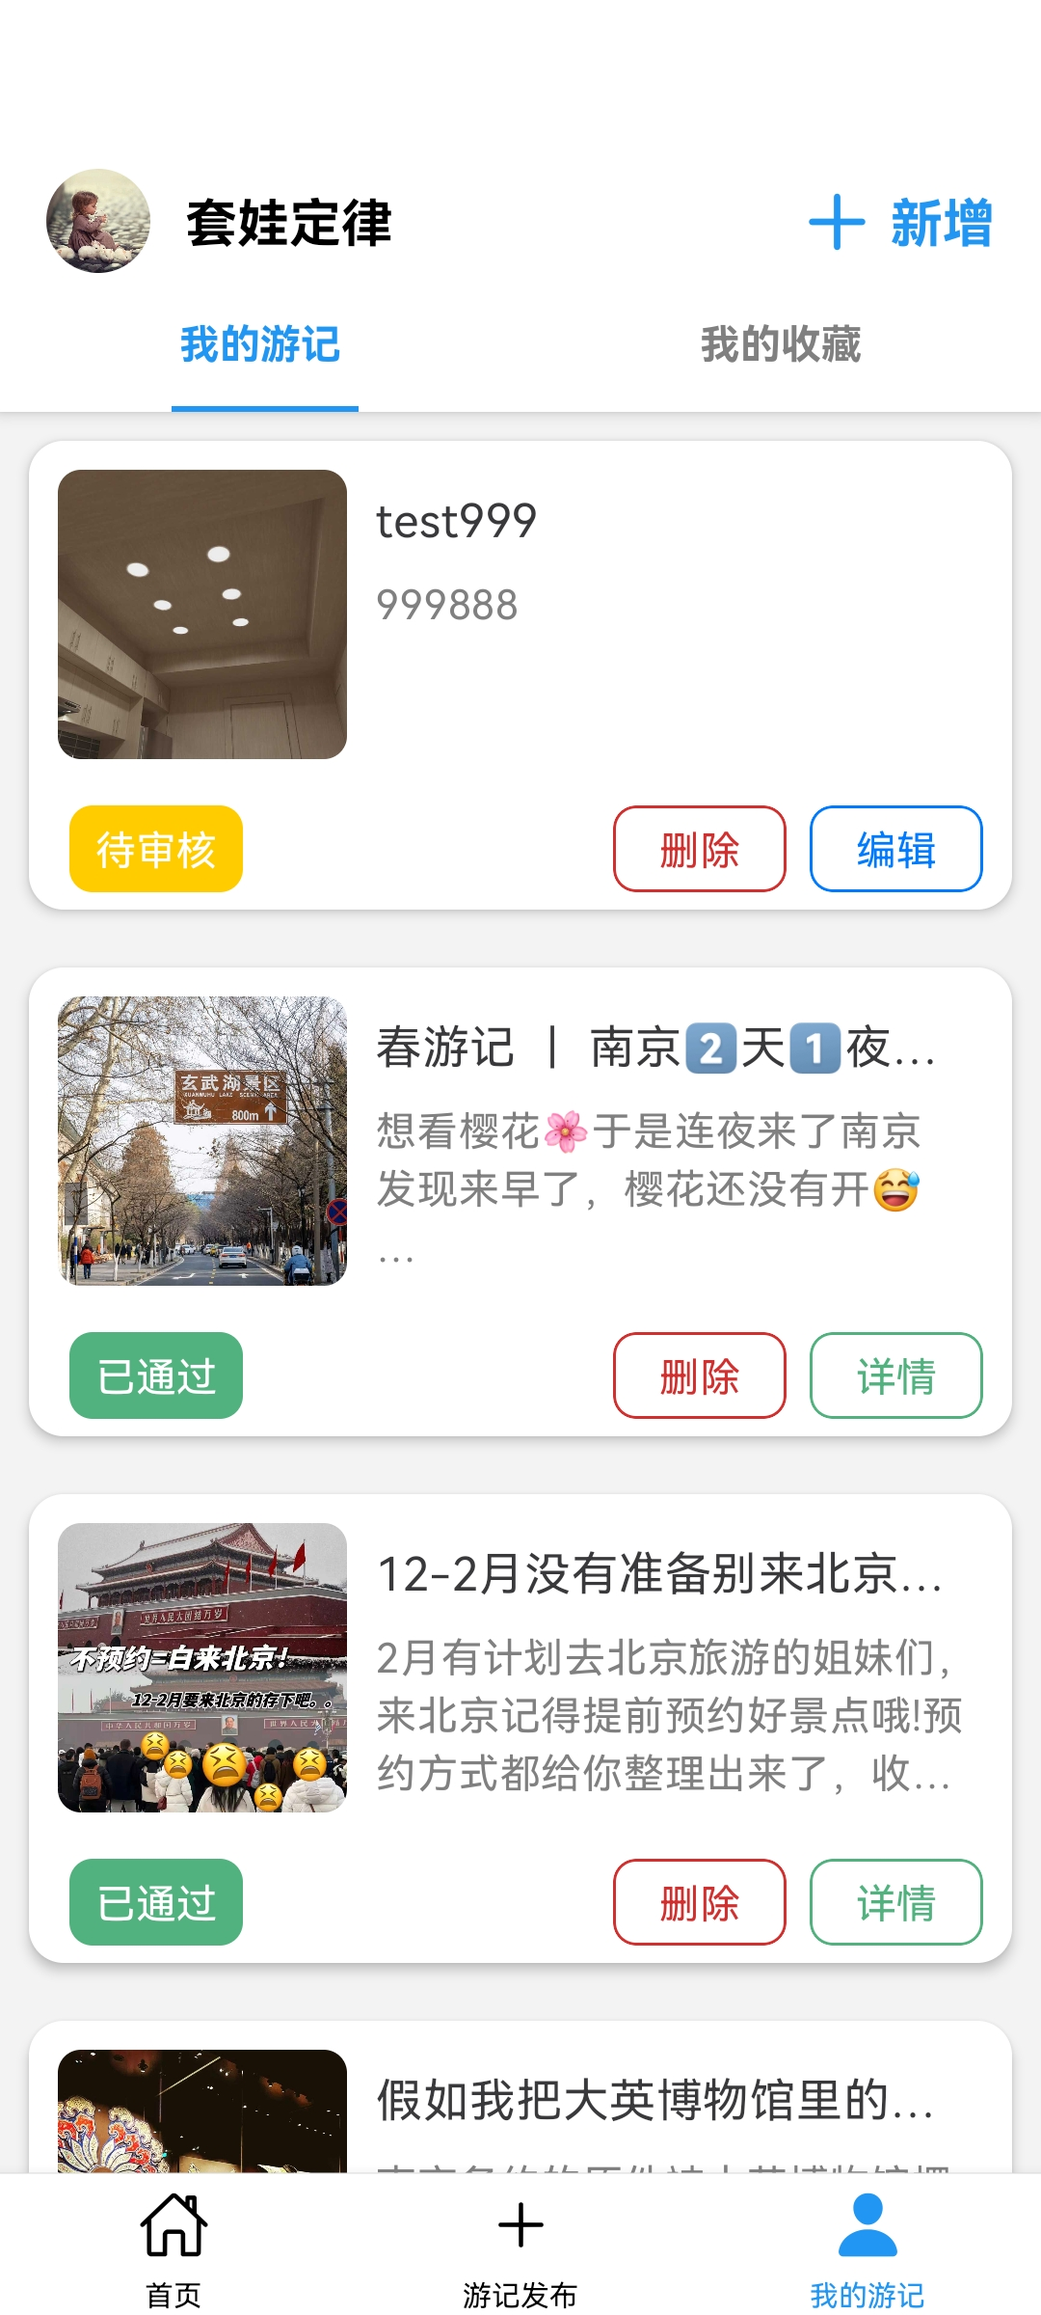
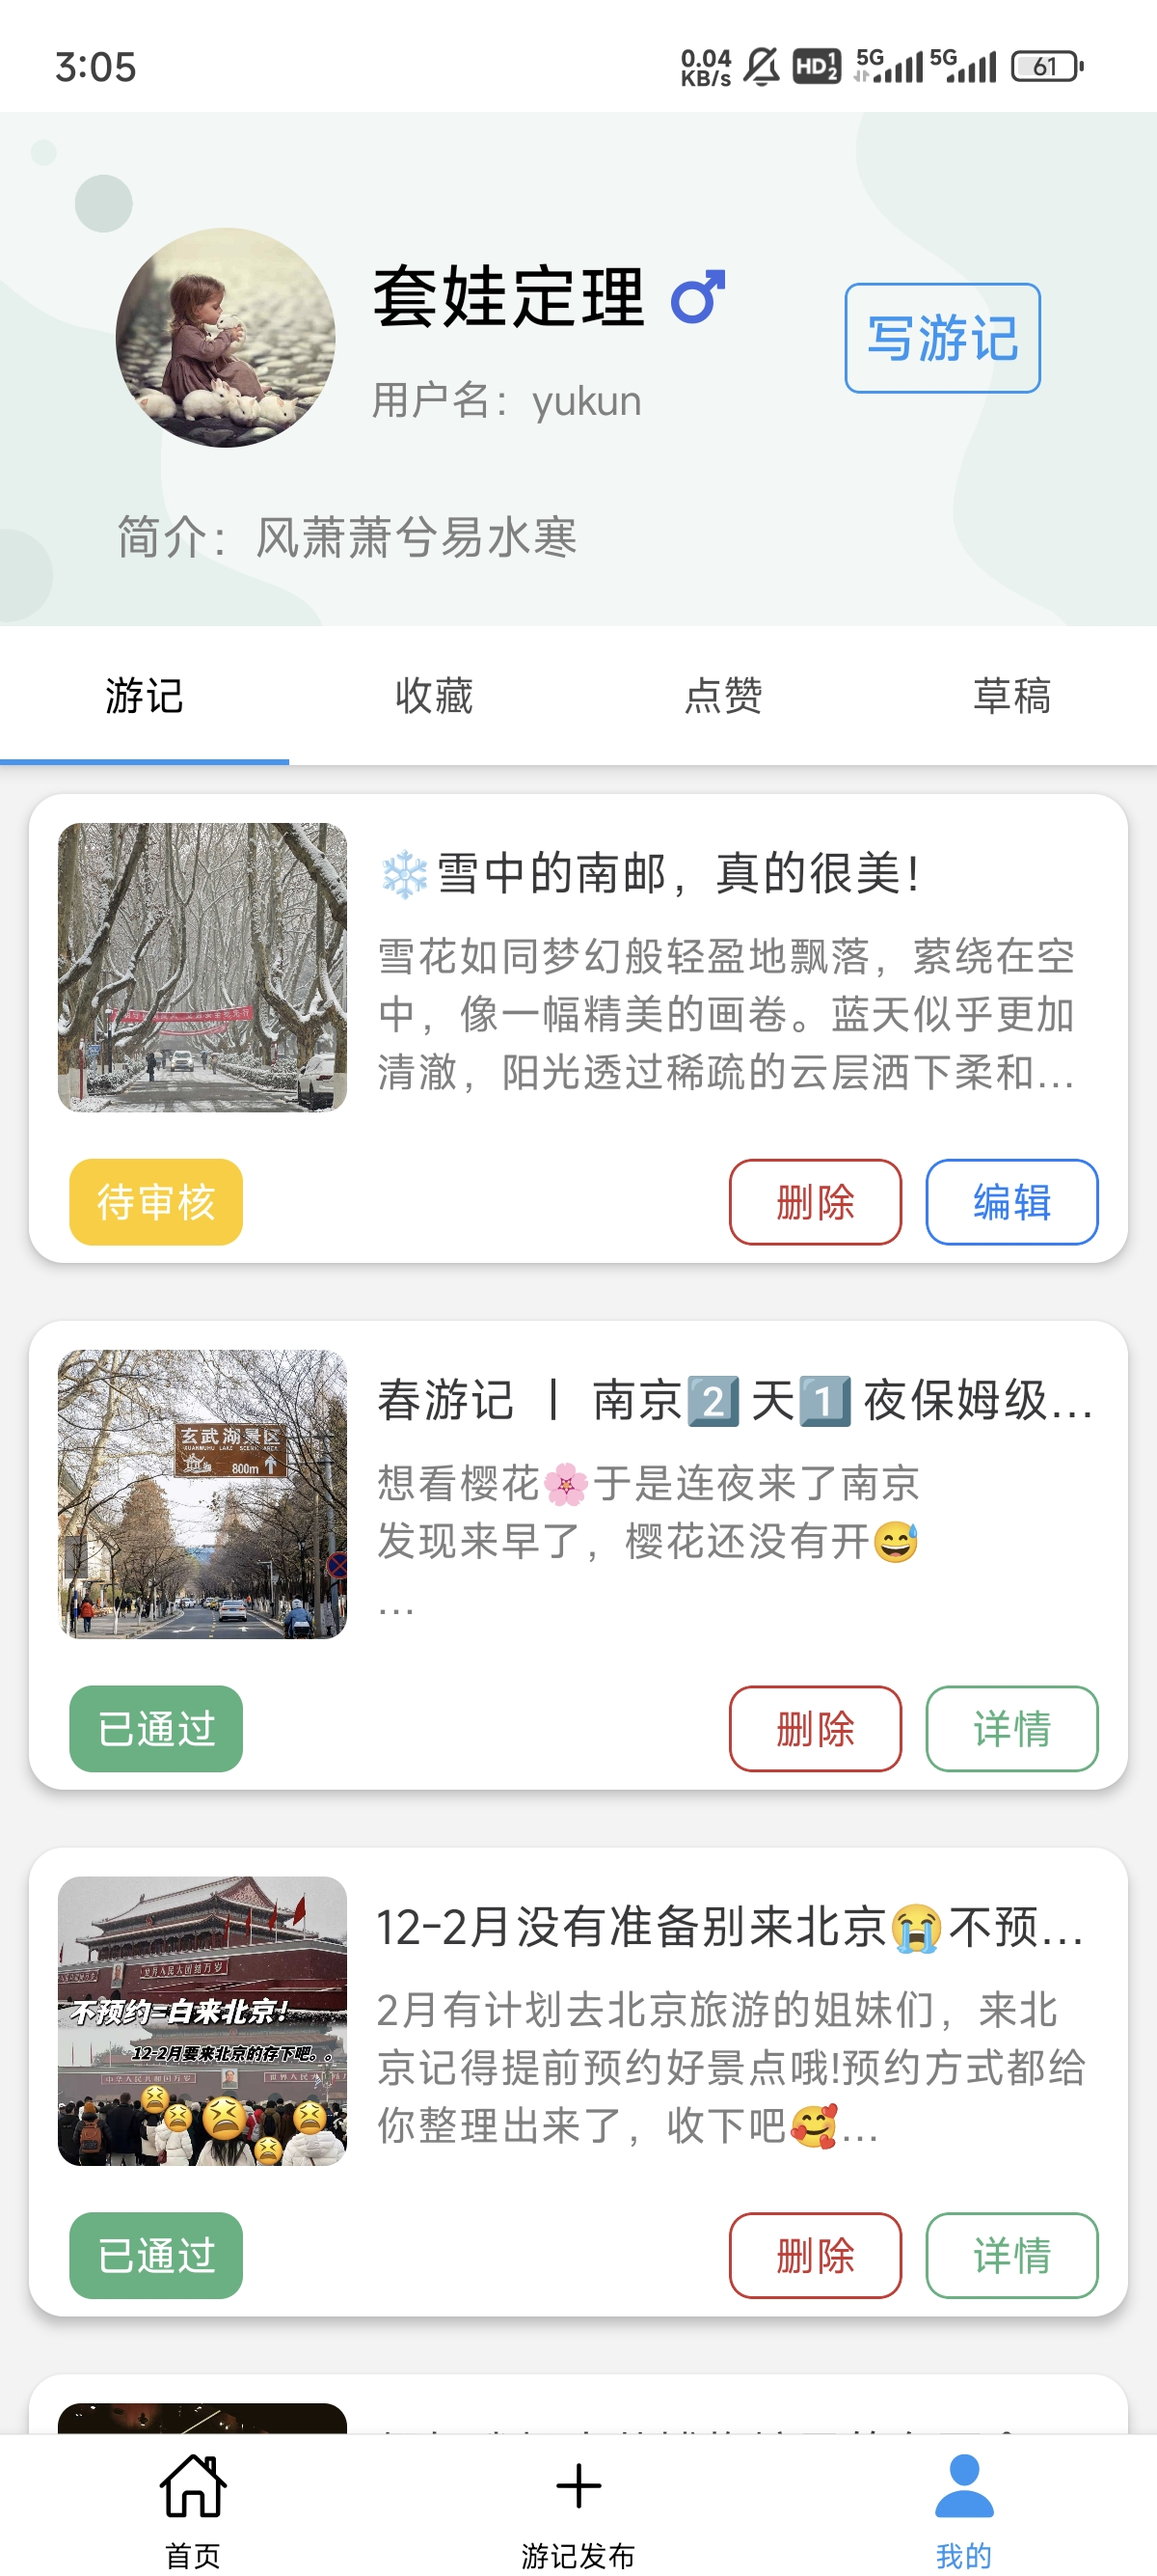
修改README文件

diff --git a/travels_mobile/src/views/MyTravels/myTravels.jsx b/travels_mobile/src/views/MyTravels/myTravels.jsx
@@ -257,7 +257,6 @@ export default function MyTravelsScreen() {
   const [collectedTravels, setCollectedTravels] = useState([]);  //存放我的收藏数据
   const [likedTravels, setlikedTravels] = useState([]);  //存放我的点赞数据
   const [draftTravels, setDraftTravels] = useState([]);  //存放我的草稿数据
-  const [refreshing, setRefreshing] = useState(false)
   const [isLoading, setIsLoading] = useState(true);  //加载态
   const window = Dimensions.get('window');
   const [refreshing, setRefreshing] = useState(false);
@@ -377,61 +376,6 @@ export default function MyTravelsScreen() {
     <View style={styles.container}>
       <LoadingOverlay isVisible={isLoading} />
       {/* 根据是否登录判断是否渲染选项卡组件 */}
-<<<<<<< HEAD
-      {userInfo.id ?
-            // <TabView
-            //   // 选项卡组件
-            //   navigationState={{ index, routes }}
-            //   renderScene={renderScene}
-            //   onIndexChange={setIndex}
-            //   initialLayout={initialLayout}
-            //   style={styles.tabView}
-            //   renderTabBar={renderTabBar}
-            // /> 
-            <Tabs.Container renderHeader={MyHeader} activeColor='blue'>
-            <Tabs.Tab name={'A'} label={'我的游记'}>
-              <Tabs.ScrollView refreshControl={
-              <RefreshControl
-                refreshing={refreshing}
-                onRefresh={fetchTravels}
-                tintColor="#000"
-                colors={["#000"]}
-              />}
-              >
-                <FirstRoute myTravels={myTravels} fetchTravels={fetchTravels} isLoading={isLoading} />
-              </Tabs.ScrollView>
-            </Tabs.Tab>
-            <Tabs.Tab name={'B'} label={'我的收藏'}>
-              <Tabs.ScrollView>
-                <SecondRoute collectedTravels={collectedTravels} fetchTravels={fetchTravels} isLoading={isLoading} />
-          </Tabs.ScrollView>
-          
-          
-            </Tabs.Tab>
-            <Tabs.Tab name={'C'} label={'我的点赞'}>
-              <Tabs.ScrollView>
-                <ThirdRoute likedTravels={likedTravels} fetchTravels={fetchTravels} isLoading={isLoading} />
-              </Tabs.ScrollView>
-            </Tabs.Tab>
-            <Tabs.Tab name={'D'} label={'我的草稿'}>
-              <Tabs.ScrollView 
-              refreshControl={
-              <RefreshControl
-                refreshing={refreshing}
-                onRefresh={fetchTravels}
-                tintColor="#000"
-                colors={["#000"]}
-              />}>
-                <FourthRoute draftTravels={draftTravels} fetchTravels={fetchTravels} isLoading={isLoading} />
-              </Tabs.ScrollView>
-            </Tabs.Tab>
-
-            </Tabs.Container>
-            :
-            <UnLoginScreen></UnLoginScreen>// 未登录显示组件
-          }
-      
-=======
       <Tabs.Container renderHeader={MyHeader} activeColor='blue' >
         <Tabs.Tab name={'A'} label={'游记'} >
           <Tabs.ScrollView refreshControl={
@@ -466,7 +410,6 @@ export default function MyTravelsScreen() {
           </Tabs.ScrollView>
         </Tabs.Tab>
       </Tabs.Container>
->>>>>>> f89088f14106a26636d1701996bffcf8f8ff52a1
     </View>
   );
 }

diff --git a/travels_mobile/README.md b/travels_mobile/README.md
@@ -1,6 +1,6 @@
 # 项目介绍
 
-这是一个基于 Expo 平台和 React Native 开发的旅游日记平台的用户移动端 APP 项目。该项目旨在为用户提供一个便利的平台，可以记录和分享自己的旅行经历，并与其他用户交流和分享旅行灵感。
+“牛牛旅行日记”是一个基于 Expo 平台和 React Native 开发的用户移动端 APP 项目。该项目旨在为用户提供一个便利的平台，可以记录和分享自己的旅行经历，并与其他用户交流和分享旅行灵感。
 
 # 项目技术栈
 
@@ -70,16 +70,16 @@
 ### 4. 详情页
 
 - **描述：** 详情页展示了单篇旅行日记的详细内容，包括轮播图展示的多张游记图片、地理位置信息、标题、内容描述、发布时间、点赞数和收藏数等。用户可以在详情页查看、点赞以及收藏旅行日记，同时还可以将游记的内容分享到其他平台上。
-- **主要组件：** react native swiper ：一个 React Native 轮播图组件库。可以帮助开发者快速实现图片轮播等功能。该库支持多种自定义配置选项，包括轮播速度、轮播方向、指示器样式等。
+- **主要组件：** react native pager view ：一个 React Native 轮播图组件库。可以帮助开发者快速实现图片轮播等功能。该库支持多种自定义配置选项，包括轮播速度、轮播方向、指示器样式等。
 
 ### 5. 编辑发布页
 
-- **描述：** 编辑发布页用于用户创建和编辑自己的旅行日记。用户可以在此页面添加标题内容、上传照片、选择地理位置等，并将旅行日记发布到平台上与其他用户分享。
+- **描述：** 编辑发布页用于用户创建和编辑自己的旅行日记。用户可以在此页面添加标题内容、上传照片、选择地理位置等，并将旅行日记发布到平台上与其他用户分享，还没准备好发布时也支持先存到草稿箱。
 
-### 6. 我的游记页
+### 6. 我的页
 
-- **描述：** 我的游记页面采用了选项卡组件，选项包括我的游记和我的收藏。我的游记展示了当前登录用户的个人旅行日记，用户可以在此页面查看自己发布的旅行日记的状态、可以对游记进行删除抑或是重新编辑。我的收藏页面展示了用户收藏的旅行日记，用户可以点击详情查看游记的详细内容，也可以取消收藏。
-- **主要组件：** react native tab view ：一个 React Native 导航组件库。可以帮助开发者轻松创建具有选项卡式导航的界面，支持水平和垂直方向的标签页导航，并提供流畅的动画效果。开发者可以通过简单的 API 自定义标签页的外观、布局和交互效果，以满足不同项目的需求。
+- **描述：** 我的页面采用了选项卡组件，选项包括游记、收藏、点赞和草稿。我的游记展示了当前登录用户的个人旅行日记，用户可以在此页面查看自己发布的旅行日记的状态、可以对游记进行删除抑或是重新编辑。我的收藏和我的点赞展示了用户收藏和点赞的旅行日记，用户可以点击详情查看游记的详细内容，我的草稿保存了用户还没有准备好发布的游记内容，并支持继续编辑。
+- **主要组件：** react native collapsible tab view ：一个 React Native 选项卡组件库。可以帮助开发者轻松创建具有选项卡式导航的界面，支持水平和垂直方向的标签页导航，还支持顶部的用户信息折叠效果，并提供流畅的动画效果。开发者可以通过简单的 API 自定义标签页的外观、布局和交互效果，以满足不同项目的需求。
 
 # 项目启动
 
@@ -88,8 +88,10 @@
 3. 进入项目目录 `cd travels_mobile`
 4. 安装依赖 `yarn install`
 5. 启动项目 `yarn start`
-6. 链接调试设备：使用手机Expo Go扫描二维码；或者打开Android Studio模拟器，运行`a`
+6. 链接调试设备：使用手机Expo Go扫描二维码；或者打开Android Studio模拟器，终端控制台运行`a`
 
 # 项目截图
 
-<img src="assets/我的游记页面.jpg" alt="我的游记页面" width="33%" style="zoom:25%;" /><img src="assets/编辑发布页.jpg" alt="编辑发布页" width="33%" style="zoom:25%;" /><img src="assets/详情页.jpg" alt="详情页" width="33%" style="zoom:25%;" /><img src="assets/首页.jpg" alt="首页" width="33%" style="zoom:25%;" /><img src="assets/登录页.jpg" alt="登录页" width="33%" style="zoom:25%;" /><img src="assets/我的收藏页面.jpg" alt="我的收藏页面" width="33%" style="zoom:25%;" /><img src="assets/注册页.jpg" alt="注册页" width="33%" style="zoom:25%;" />
+<img src="assets/我的游记页面.jpg" alt="我的游记页面" width="33%" style="zoom:25%;" /><img src="assets/编辑发布页.jpg" alt="编辑发布页" width="33%" style="zoom:25%;" /><img src="assets/详情页.jpg" alt="详情页" width="33%" style="zoom:25%;" /><img src="assets/首页.jpg" alt="首页" width="33%" style="zoom:25%;" /><img src="assets/登录页.jpg" alt="登录页" width="33%" style="zoom:25%;" /><img src="assets/我的收藏页面.jpg" alt="我的收藏页面" width="33%" style="zoom:25%;" /><img src="assets/注册页.jpg" alt="注册页" width="33%" style="zoom:25%;" /><img src="assets/我的点赞页面.jpg" alt="我的点赞页面" width="33%" style="zoom:25%;" /><img src="assets/我的草稿页面.jpg" alt="我的草稿页面" width="33%" style="zoom:25%;" />
+
+<img src="assets/用户信息修改页.jpg" alt="用户信息修改页" width="33%" style="zoom:25%;" />
